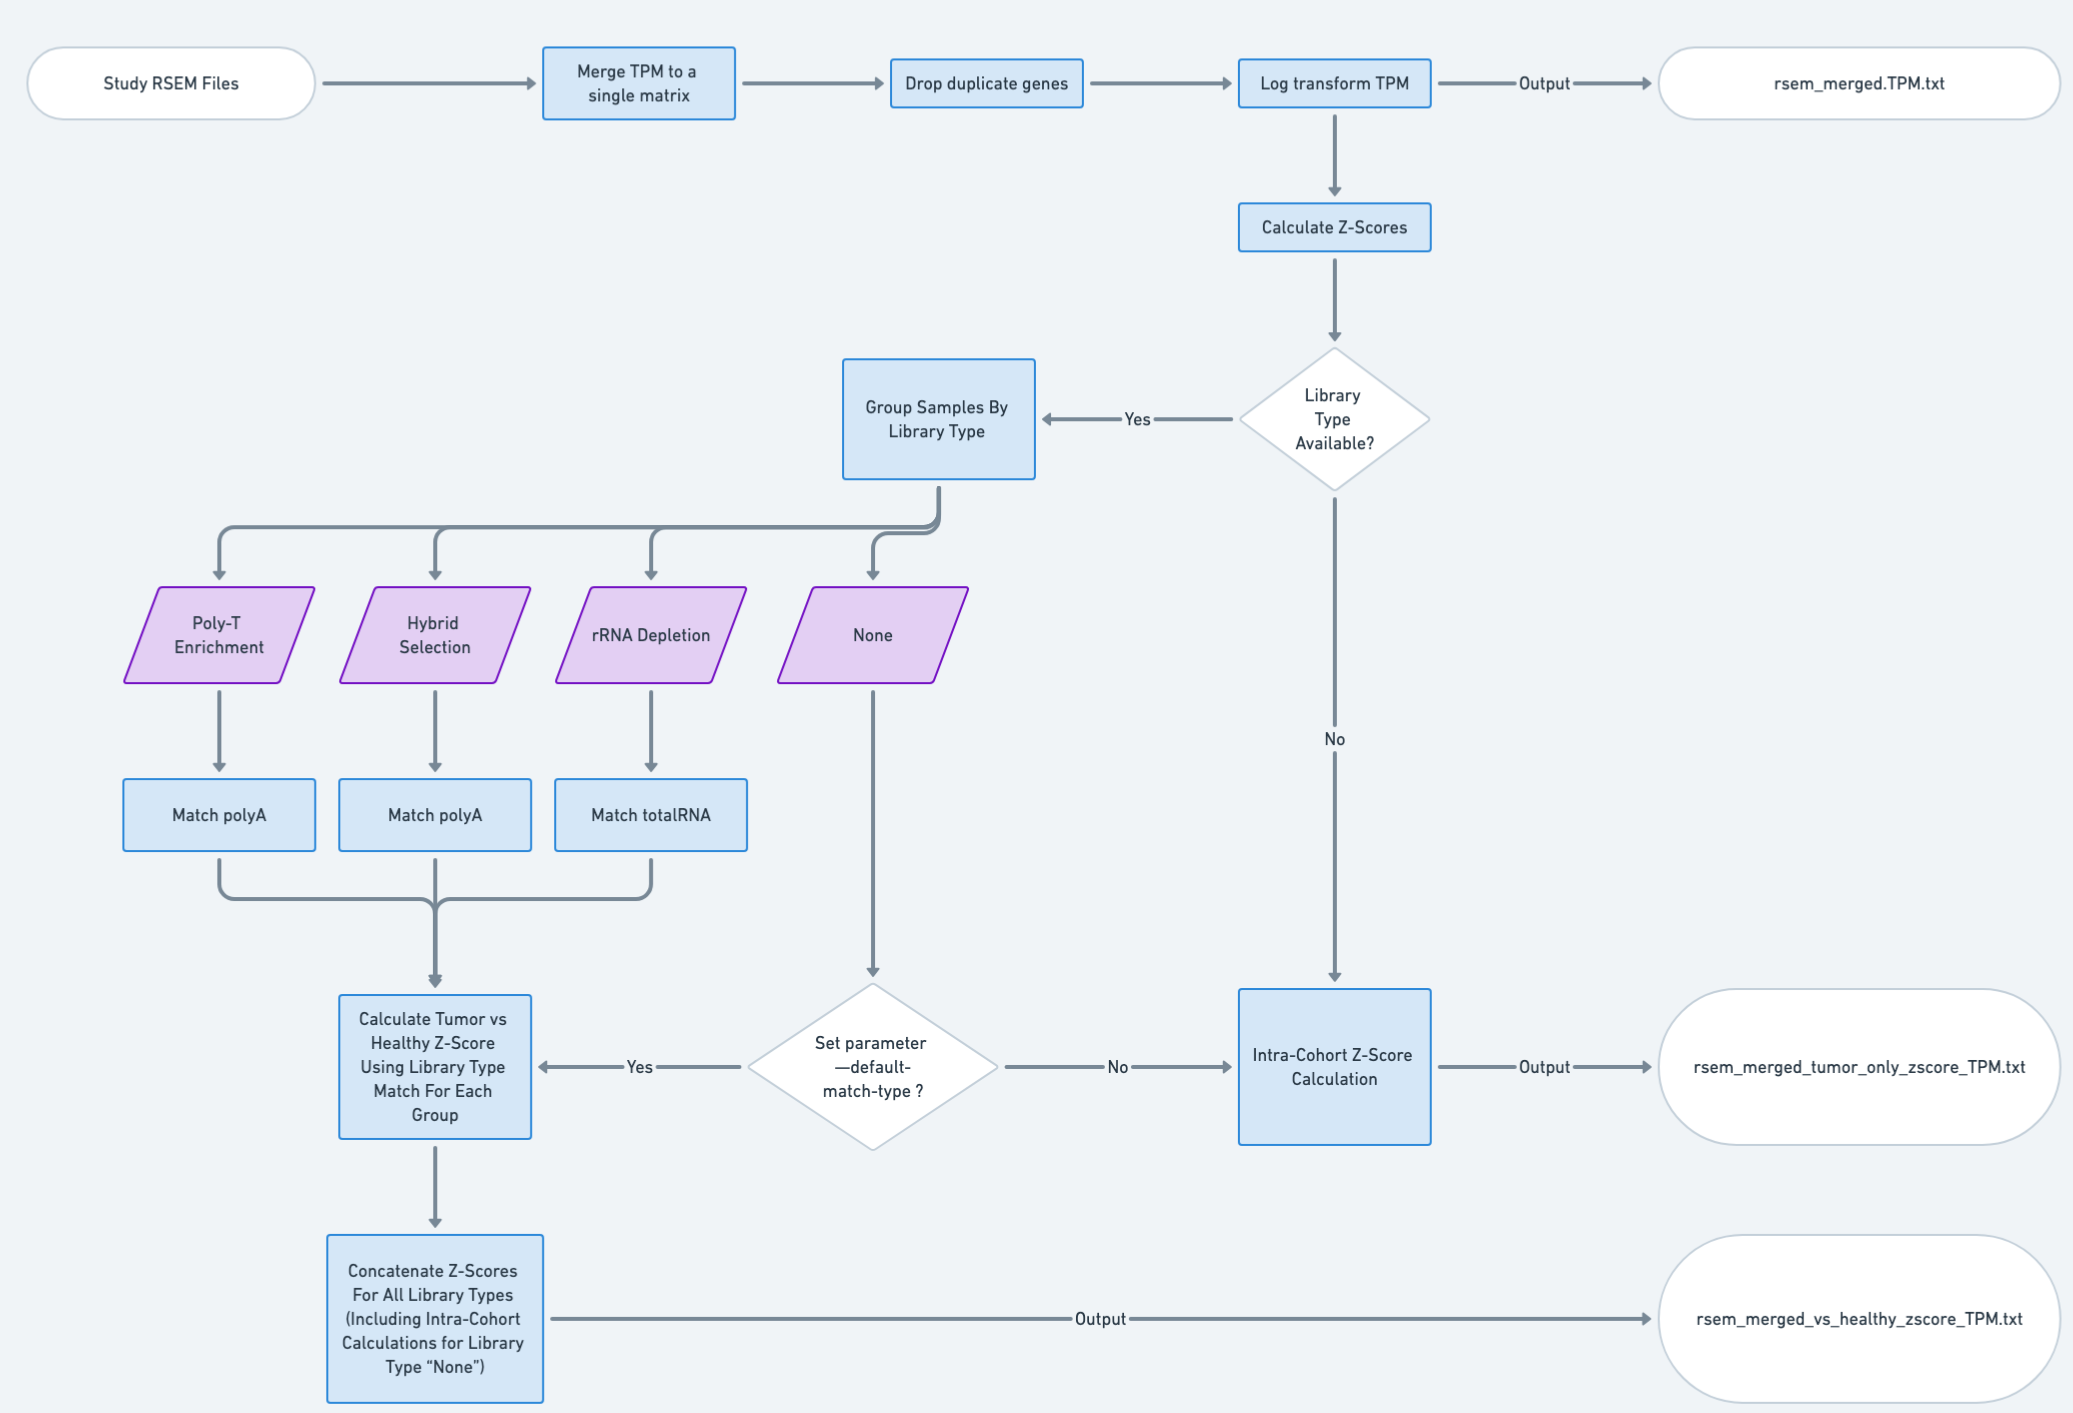
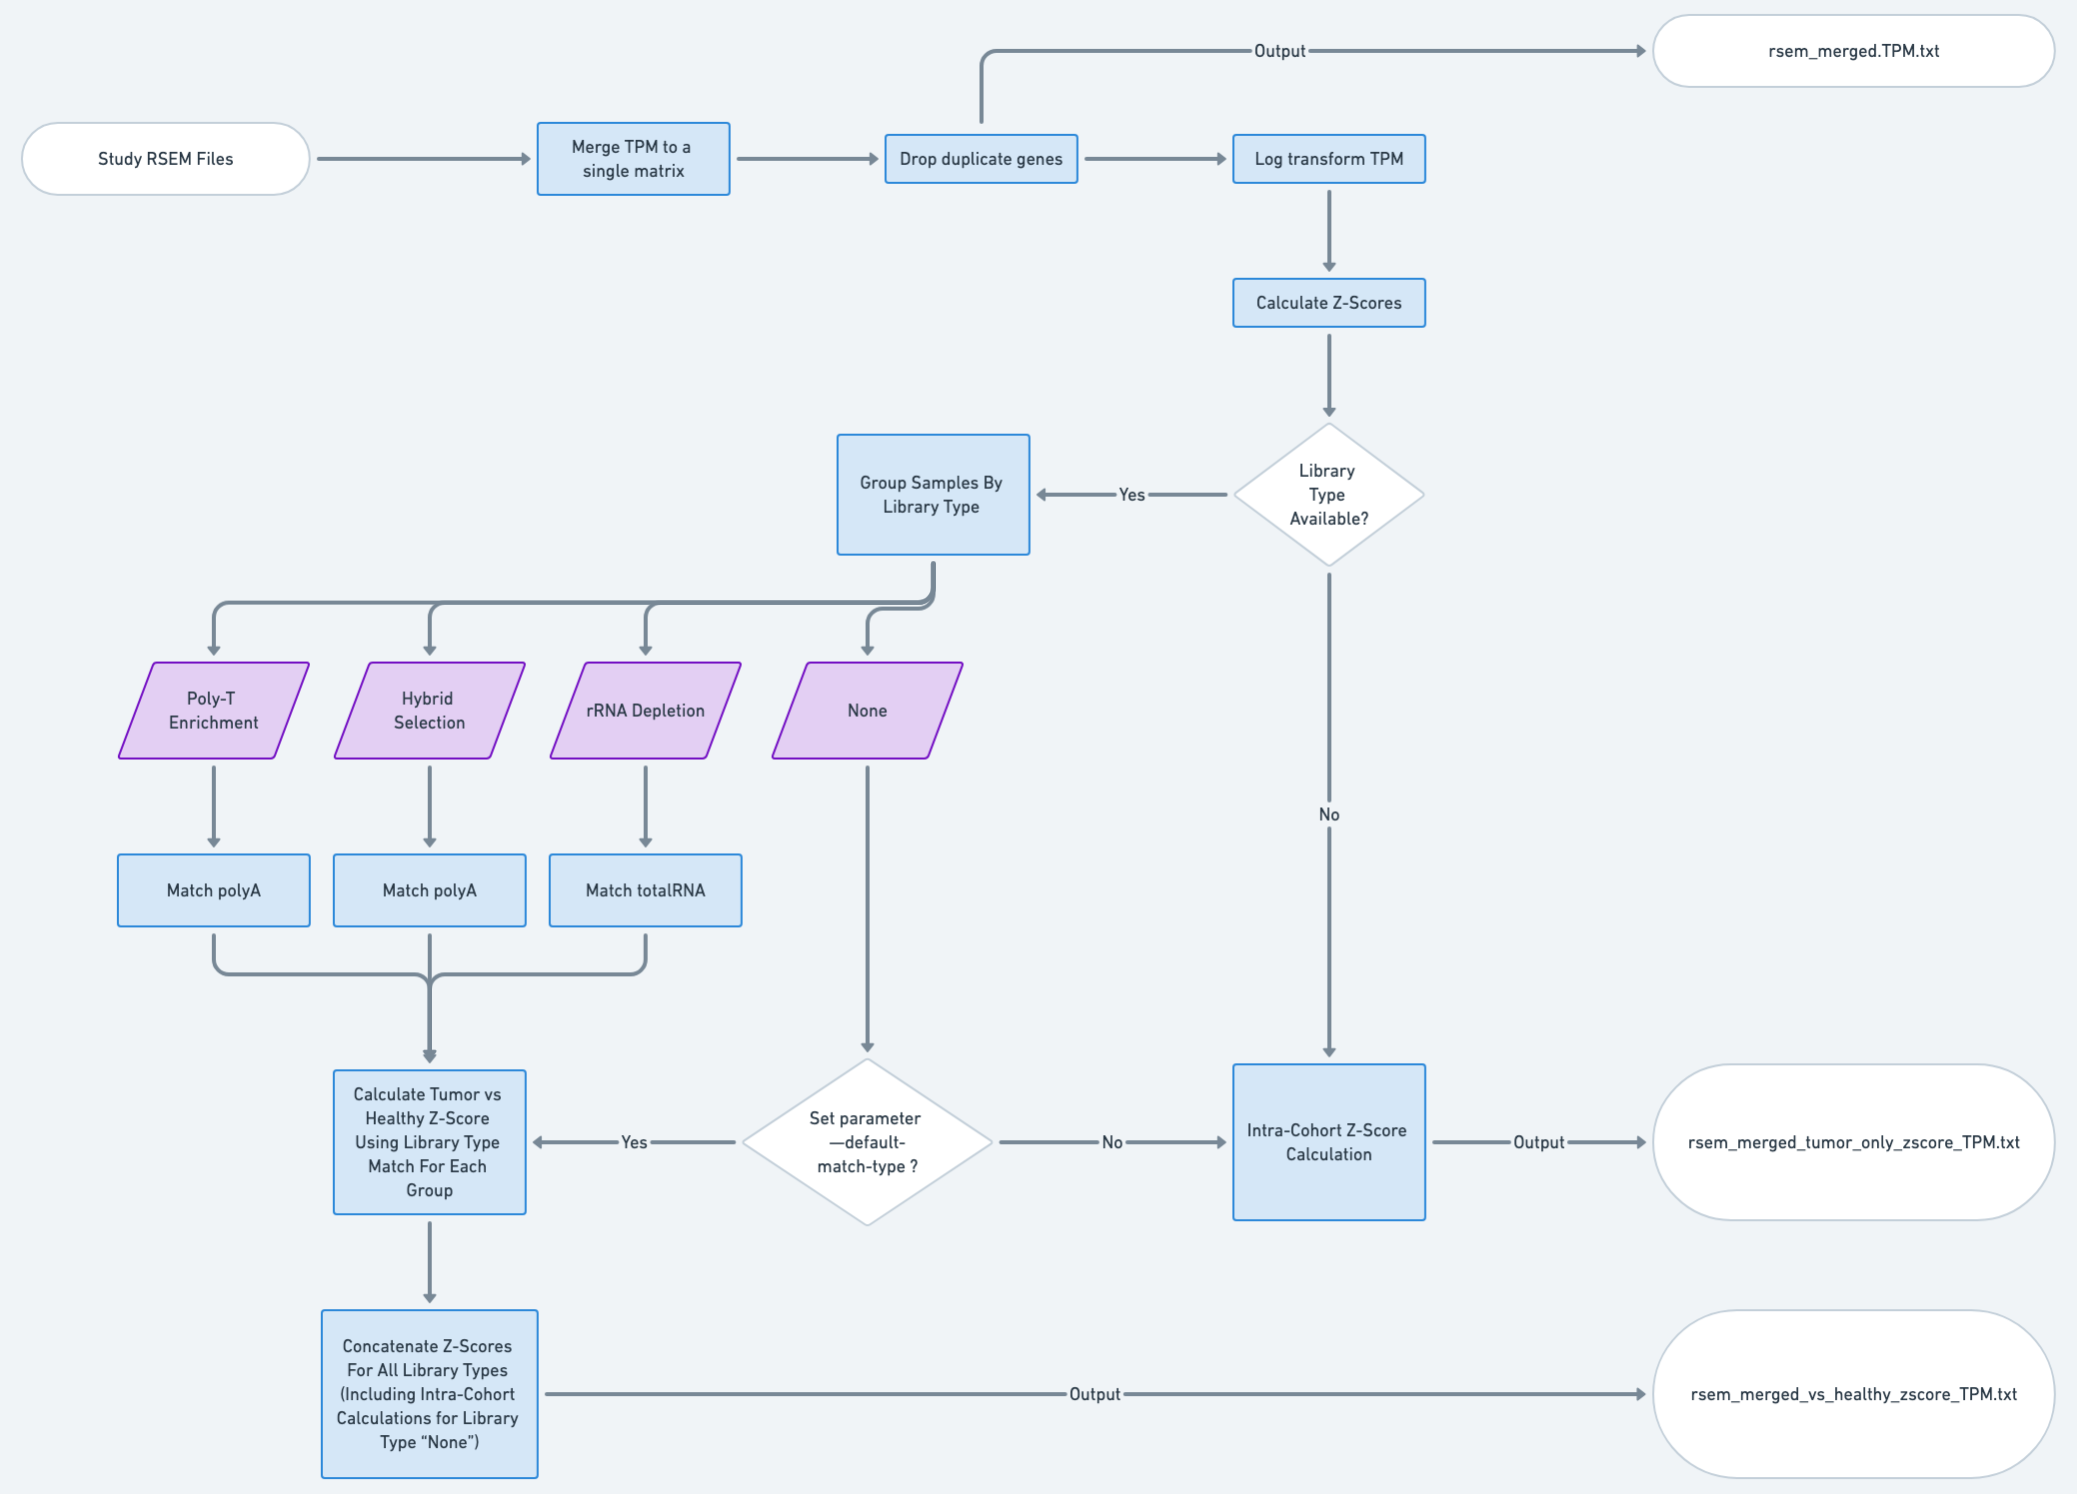
update flowchart

diff --git a/docs/rnaseq_zscore_processing.md b/docs/rnaseq_zscore_processing.md
@@ -8,7 +8,8 @@ The script performs the following key tasks:
 1. Converts gene symbols to Hugo, filters out duplicate gene symbols
 1. Applies log transformation (log2(TPM + 1))
 1. Calculates z-scores per gene across all samples in the cohort
-1. Outputs merged log2(TPM + 1) matrix and two z-scored matrices
+1. Outputs:
+    1. merged TPM matrix
     1. Intra-cohort z-scores
     1. Tumor vs reference z-scores (if available)
 
